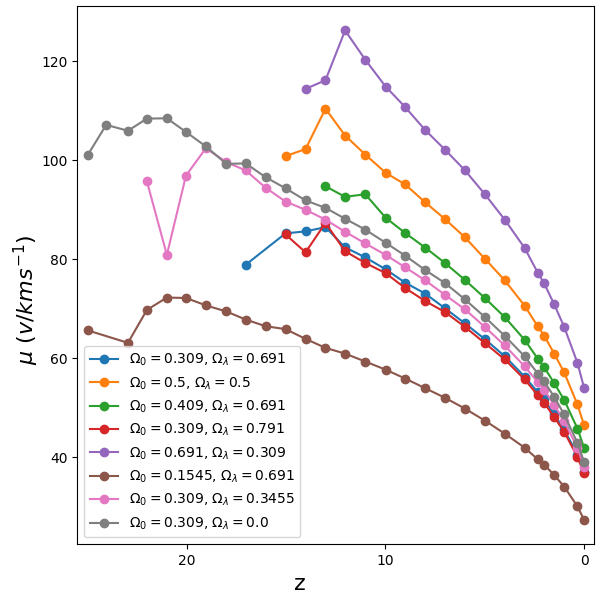
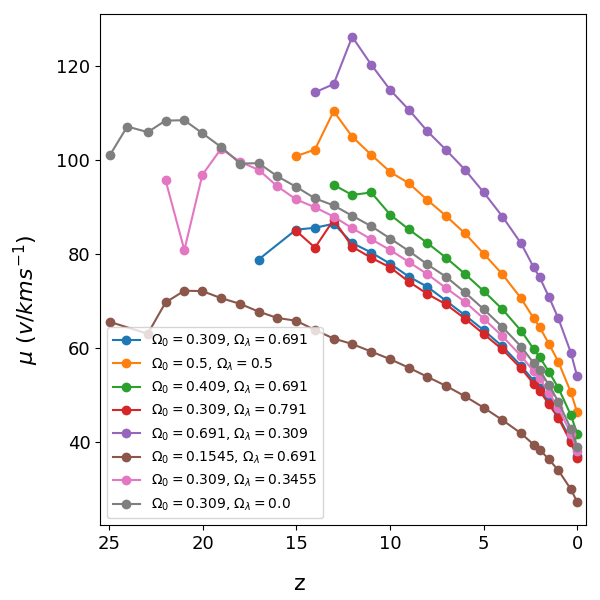
FontSize in Conc

diff --git a/WorkingData/VMaxRad_Conc.py b/WorkingData/VMaxRad_Conc.py
@@ -8,13 +8,13 @@ from scipy.stats import norm as scp
 fig1, ax1 = plt.subplots( nrows=1, ncols=1, num='mean', figsize=(6,6) )
 fig2, ax2 = plt.subplots( nrows=1, ncols=1, num='std', figsize=(6,6) )
 
-LEGEND_SIZE= 11
-DEFAULT=4
-SMALL_SIZE = 22
-MEDIUM_SIZE = 22
+LEGEND_SIZE= 10
+TICK_SIZE = 13
+DEFAULT=9
+SMALL_SIZE = 2
+MEDIUM_SIZE = 18
 BIGGER_SIZE = 16
 
-plt.rcParams.update({'font.size': SMALL_SIZE})
 plt.rc('font', size=DEFAULT)          # controls default text sizes
 plt.rc('axes', titlesize=MEDIUM_SIZE)     # fontsize of the axes title
 plt.rc('axes', labelsize=MEDIUM_SIZE)    # fontsize of the x and y labels
@@ -22,6 +22,7 @@ plt.rc('xtick', labelsize=SMALL_SIZE)    # fontsize of the tick labels
 plt.rc('ytick', labelsize=SMALL_SIZE)    # fontsize of the tick labels
 plt.rc('legend', fontsize=LEGEND_SIZE)    # legend fontsize
 plt.rc('figure', titlesize=BIGGER_SIZE)  # fontsize of the figure title
+
 
 # Loc de archivos para trabajar
 # sim = 'RunHighLam'
@@ -93,6 +94,10 @@ fig1.supxlabel('z')
 fig2.supxlabel('z')
 fig1.supylabel('$\mu$ (r/Kpc)')# type: ignore
 fig2.supylabel('$\sigma$(r/Kpc)')# type: ignore
+ax1.tick_params(axis='x', labelsize=TICK_SIZE)
+ax1.tick_params(axis='y', labelsize=TICK_SIZE)
+ax2.tick_params(axis='x', labelsize=TICK_SIZE)
+ax2.tick_params(axis='y', labelsize=TICK_SIZE)
 ax1.set_xlim(round(max(z),ndigits=0) + 0.5,-0.2)
 ax2.set_xlim(round(max(z),ndigits=0) + 0.5,-0.2)
 ax1.legend(loc='best')

diff --git a/WorkingData/DispVel_Conc.py b/WorkingData/DispVel_Conc.py
@@ -9,12 +9,12 @@ fig1, ax1 = plt.subplots( nrows=1, ncols=1, num='mean', figsize=(6,6) )
 fig2, ax2 = plt.subplots( nrows=1, ncols=1, num='std', figsize=(6,6) )
 
 LEGEND_SIZE= 10
-DEFAULT=4
-SMALL_SIZE = 22
-MEDIUM_SIZE = 22
+TICK_SIZE = 13
+DEFAULT=9
+SMALL_SIZE = 2
+MEDIUM_SIZE = 18
 BIGGER_SIZE = 16
 
-plt.rcParams.update({'font.size': SMALL_SIZE})
 plt.rc('font', size=DEFAULT)          # controls default text sizes
 plt.rc('axes', titlesize=MEDIUM_SIZE)     # fontsize of the axes title
 plt.rc('axes', labelsize=MEDIUM_SIZE)    # fontsize of the x and y labels
@@ -22,6 +22,7 @@ plt.rc('xtick', labelsize=SMALL_SIZE)    # fontsize of the tick labels
 plt.rc('ytick', labelsize=SMALL_SIZE)    # fontsize of the tick labels
 plt.rc('legend', fontsize=LEGEND_SIZE)    # legend fontsize
 plt.rc('figure', titlesize=BIGGER_SIZE)  # fontsize of the figure title
+
 
 # Loc de archivos para trabajar
 # sim = 'RunHighLam'
@@ -93,6 +94,10 @@ fig1.supxlabel('z')
 fig2.supxlabel('z')
 fig1.supylabel('$\mu$ ($v/kms^{-1}$)')# type: ignore
 fig2.supylabel('$\sigma$ ($v/kms^{-1}$)')# type: ignore
+ax1.tick_params(axis='x', labelsize=TICK_SIZE)
+ax1.tick_params(axis='y', labelsize=TICK_SIZE)
+ax2.tick_params(axis='x', labelsize=TICK_SIZE)
+ax2.tick_params(axis='y', labelsize=TICK_SIZE)
 ax1.set_xlim(round(max(z),ndigits=0) + 0.5,-0.5)
 ax2.set_xlim(round(max(z),ndigits=0) + 0.5,-0.5)
 ax1.legend(loc='best')

diff --git a/WorkingData/Mass_Conc.py b/WorkingData/Mass_Conc.py
@@ -8,13 +8,13 @@ from scipy.stats import exponnorm as scp
 fig1, ax1 = plt.subplots( nrows=1, ncols=1, num='mean', figsize=(6,6) )
 fig2, ax2 = plt.subplots( nrows=1, ncols=1, num='std', figsize=(6,6) )
 
-LEGEND_SIZE= 11
-DEFAULT=4
-SMALL_SIZE = 22
-MEDIUM_SIZE = 22
+LEGEND_SIZE= 10
+TICK_SIZE = 13
+DEFAULT=9
+SMALL_SIZE = 2
+MEDIUM_SIZE = 18
 BIGGER_SIZE = 16
 
-plt.rcParams.update({'font.size': SMALL_SIZE})
 plt.rc('font', size=DEFAULT)          # controls default text sizes
 plt.rc('axes', titlesize=MEDIUM_SIZE)     # fontsize of the axes title
 plt.rc('axes', labelsize=MEDIUM_SIZE)    # fontsize of the x and y labels
@@ -93,6 +93,10 @@ fig1.supxlabel('z')
 fig2.supxlabel('z')
 fig1.supylabel('$\mu$ (log$_{10}$ M/M$_\odot$)')# type: ignore
 fig2.supylabel('$\sigma$ (log$_{10}$ M/M$_\odot$)')# type: ignore
+ax1.tick_params(axis='x', labelsize=TICK_SIZE)
+ax1.tick_params(axis='y', labelsize=TICK_SIZE)
+ax2.tick_params(axis='x', labelsize=TICK_SIZE)
+ax2.tick_params(axis='y', labelsize=TICK_SIZE)
 ax1.set_xlim(round(max(z),0) + 0.5,-0.2)
 ax2.set_xlim(round(max(z),0) + 0.5,-0.2)
 ax1.legend(loc='best')

diff --git a/WorkingData/HalfMassRad_Conc.py b/WorkingData/HalfMassRad_Conc.py
@@ -8,13 +8,13 @@ from scipy.stats import norm as scp
 fig1, ax1 = plt.subplots( nrows=1, ncols=1, num='mean', figsize=(6,6) )
 fig2, ax2 = plt.subplots( nrows=1, ncols=1, num='std', figsize=(6,6) )
 
-LEGEND_SIZE= 11
-DEFAULT=4
-SMALL_SIZE = 22
-MEDIUM_SIZE = 22
+LEGEND_SIZE= 10
+TICK_SIZE = 13
+DEFAULT=9
+SMALL_SIZE = 2
+MEDIUM_SIZE = 18
 BIGGER_SIZE = 16
 
-plt.rcParams.update({'font.size': SMALL_SIZE})
 plt.rc('font', size=DEFAULT)          # controls default text sizes
 plt.rc('axes', titlesize=MEDIUM_SIZE)     # fontsize of the axes title
 plt.rc('axes', labelsize=MEDIUM_SIZE)    # fontsize of the x and y labels
@@ -93,6 +93,10 @@ fig1.supxlabel('z')
 fig2.supxlabel('z')
 fig1.supylabel('$\mu$ (log$_{10}$r/Kpc)')# type: ignore
 fig2.supylabel('$\sigma$(log$_{10}$r/Kpc)')# type: ignore
+ax1.tick_params(axis='x', labelsize=TICK_SIZE)
+ax1.tick_params(axis='y', labelsize=TICK_SIZE)
+ax2.tick_params(axis='x', labelsize=TICK_SIZE)
+ax2.tick_params(axis='y', labelsize=TICK_SIZE)
 ax1.set_xlim(round(max(z),ndigits=0) + 0.5,-0.2)
 ax2.set_xlim(round(max(z),ndigits=0) + 0.5,-0.2)
 ax1.legend(loc='best')

diff --git a/WorkingData/VMax_Conc.py b/WorkingData/VMax_Conc.py
@@ -9,12 +9,12 @@ fig1, ax1 = plt.subplots( nrows=1, ncols=1, num='mean', figsize=(6,6) )
 fig2, ax2 = plt.subplots( nrows=1, ncols=1, num='std', figsize=(6,6) )
 
 LEGEND_SIZE= 10
-DEFAULT=4
-SMALL_SIZE = 22
-MEDIUM_SIZE = 22
+TICK_SIZE = 13
+DEFAULT=9
+SMALL_SIZE = 2
+MEDIUM_SIZE = 18
 BIGGER_SIZE = 16
 
-plt.rcParams.update({'font.size': SMALL_SIZE})
 plt.rc('font', size=DEFAULT)          # controls default text sizes
 plt.rc('axes', titlesize=MEDIUM_SIZE)     # fontsize of the axes title
 plt.rc('axes', labelsize=MEDIUM_SIZE)    # fontsize of the x and y labels
@@ -93,6 +93,10 @@ fig1.supxlabel('z')
 fig2.supxlabel('z')
 fig1.supylabel('$\mu$ ($v/kms^{-1}$)')# type: ignore
 fig2.supylabel('$\sigma$ ($v/kms^{-1}$)')# type: ignore
+ax1.tick_params(axis='x', labelsize=TICK_SIZE)
+ax1.tick_params(axis='y', labelsize=TICK_SIZE)
+ax2.tick_params(axis='x', labelsize=TICK_SIZE)
+ax2.tick_params(axis='y', labelsize=TICK_SIZE)
 ax1.set_xlim(round(max(z),ndigits=0) + 0.5,-0.2)
 ax2.set_xlim(round(max(z),ndigits=0) + 0.5,-0.2)
 ax1.legend(loc='best')

diff --git a/WorkingData/Total_Halos_Conc.py b/WorkingData/Total_Halos_Conc.py
@@ -5,13 +5,13 @@ from glob import glob
 # Generando Figura
 fig ,ax = plt.subplots( nrows = 1, ncols = 1, figsize = ( 6, 6 ) )
 
-LEGEND_SIZE= 11
-DEFAULT=4
-SMALL_SIZE = 22
-MEDIUM_SIZE = 22
+LEGEND_SIZE= 10
+TICK_SIZE = 13
+DEFAULT=9
+SMALL_SIZE = 2
+MEDIUM_SIZE = 18
 BIGGER_SIZE = 16
 
-plt.rcParams.update({'font.size': SMALL_SIZE})
 plt.rc('font', size=DEFAULT)          # controls default text sizes
 plt.rc('axes', titlesize=MEDIUM_SIZE)     # fontsize of the axes title
 plt.rc('axes', labelsize=MEDIUM_SIZE)    # fontsize of the x and y labels
@@ -75,8 +75,8 @@ for x in run:
     
     ax.plot(z, N_Subhalos,'o-' , label=nameParam)
 
-ax.tick_params(axis='x', labelsize=LEGEND_SIZE+1)
-ax.tick_params(axis='y', labelsize=LEGEND_SIZE+1)
+ax.tick_params(axis='x', labelsize=TICK_SIZE)
+ax.tick_params(axis='y', labelsize=TICK_SIZE)
 fig.suptitle('Evolución del número de halos total')
 fig.supylabel('Total Halos')
 fig.supxlabel('Redshift (z)')
